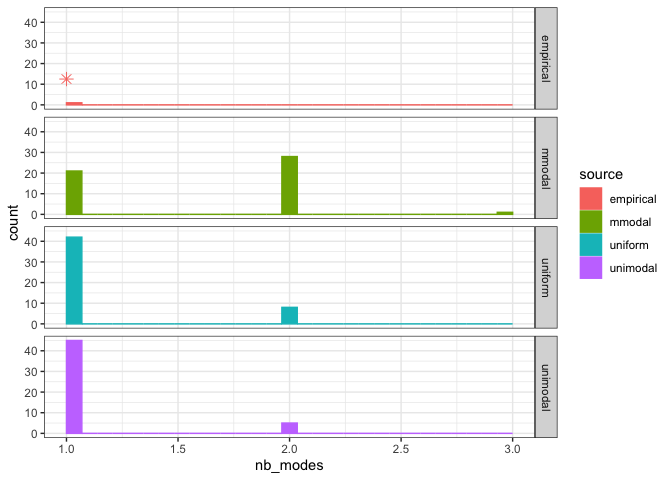
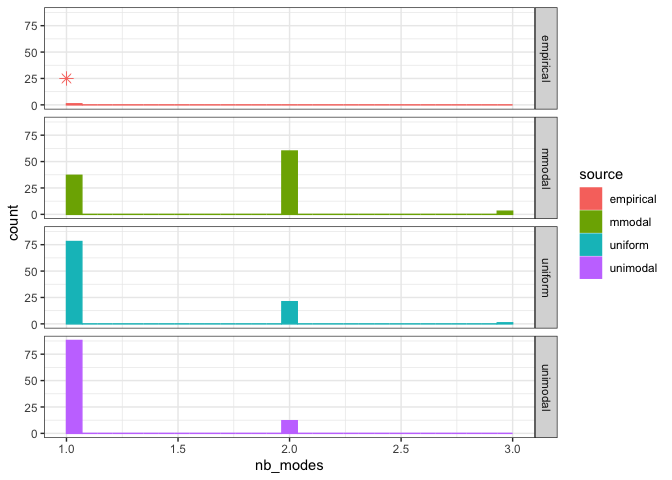
add density plots

diff --git a/analysis/reports/bsd_decay.md b/analysis/reports/bsd_decay.md
@@ -36,7 +36,7 @@ ebsd <- toyp %>%
 
 set.seed(1977)
 
-nsims = 50
+nsims = 100
 
 uniform_log_bsd <- replicate(n = nsims, expr = draw_uniform_bsd(s = nrow(ebsd), min =  min(ebsd$logwgt), max =max(ebsd$logwgt)))
 
@@ -70,7 +70,8 @@ all_bsds <- bind_rows(empirical_log_bsd, mmodal_log_bsd, uniform_log_bsd, unimod
 ``` r
 bsd_modes <- all_bsds %>%
   group_by(source, sim) %>%
-  summarize(nb_modes = get_n_clumps(val)) %>%
+  summarize(nb_modes = get_n_clumps(val),
+            nb_modes_bic = Mclust(val, G = c(1:5))$G) %>%
   ungroup()
 ```
 
@@ -91,3 +92,51 @@ modes_plot
     ## `stat_bin()` using `bins = 30`. Pick better value with `binwidth`.
 
 ![](bsd_decay_files/figure-markdown_github/plot%20nb%20modes-1.png)
+
+``` r
+single_bsds <- lapply(unique(all_bsds$source), FUN = function(X)  return(filter(all_bsds, sim == sample.int(n = nsims, size = 1), source == X)))
+
+single_bsds <- bind_rows(single_bsds) %>%
+  left_join(bsd_modes, by = c("sim", "source")) %>%
+  mutate(facet_name = paste0("source: ", source, "; ", nb_modes, " mode(s); ", nb_modes_bic, " mode(s) w BIC"))
+
+single_bsd_density_plots <- ggplot(data = single_bsds, aes(x = val, color = source)) +
+  geom_density() + 
+  facet_wrap(facet_name ~ .) +
+  theme_bw()
+
+single_bsd_density_plots
+```
+
+![](bsd_decay_files/figure-markdown_github/single%20bsd%20plots-1.png)
+
+``` r
+single_bsd_histograms <- ggplot(data = single_bsds, aes(x = val, fill = source, color = source)) +
+  geom_histogram() + 
+  facet_wrap(facet_name ~ .) +
+  theme_bw()
+
+single_bsd_histograms
+```
+
+    ## `stat_bin()` using `bins = 30`. Pick better value with `binwidth`.
+
+![](bsd_decay_files/figure-markdown_github/single%20bsd%20plots-2.png)
+
+``` r
+empirical_density_plot <- ggplot(data = filter(all_bsds, source == "empirical"), aes (x = val)) +
+  geom_density() +
+  ggtitle(paste0("Empirical BSD: ", filter(bsd_modes, source == "empirical")$nb_modes, " mode(s)")) +
+  theme_bw()
+
+empirical_count_plot <-  ggplot(data = filter(all_bsds, source == "empirical"), aes (x = val)) +
+  geom_histogram() +
+  ggtitle(paste0("Empirical BSD: ", filter(bsd_modes, source == "empirical")$nb_modes, " mode(s)")) +
+  theme_bw()
+
+gridExtra::grid.arrange(grobs = list(empirical_density_plot, empirical_count_plot), nrow = 1)
+```
+
+    ## `stat_bin()` using `bins = 30`. Pick better value with `binwidth`.
+
+![](bsd_decay_files/figure-markdown_github/single%20bsd%20plots-3.png)
